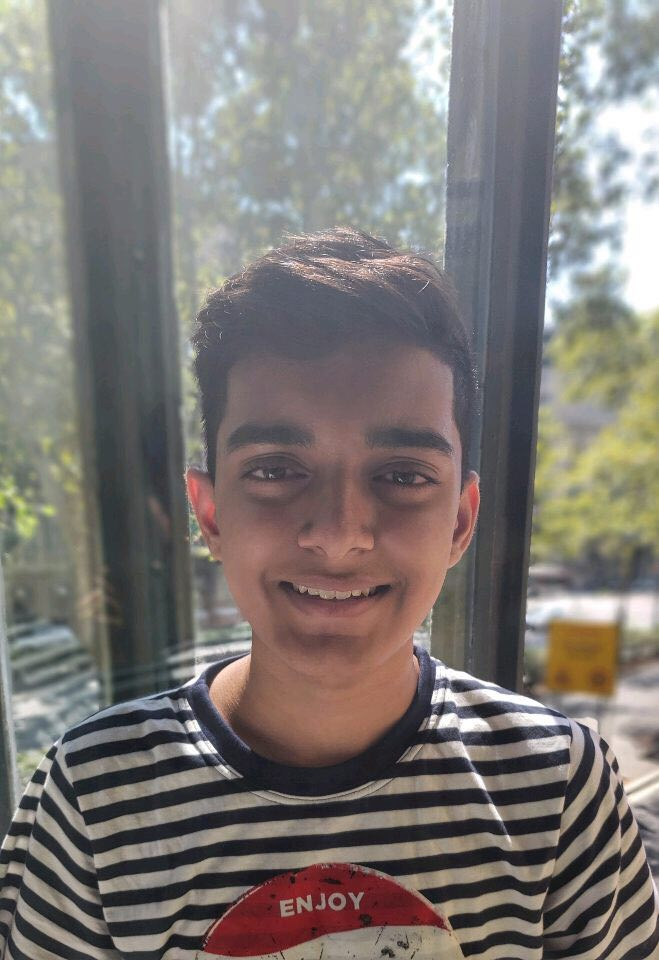
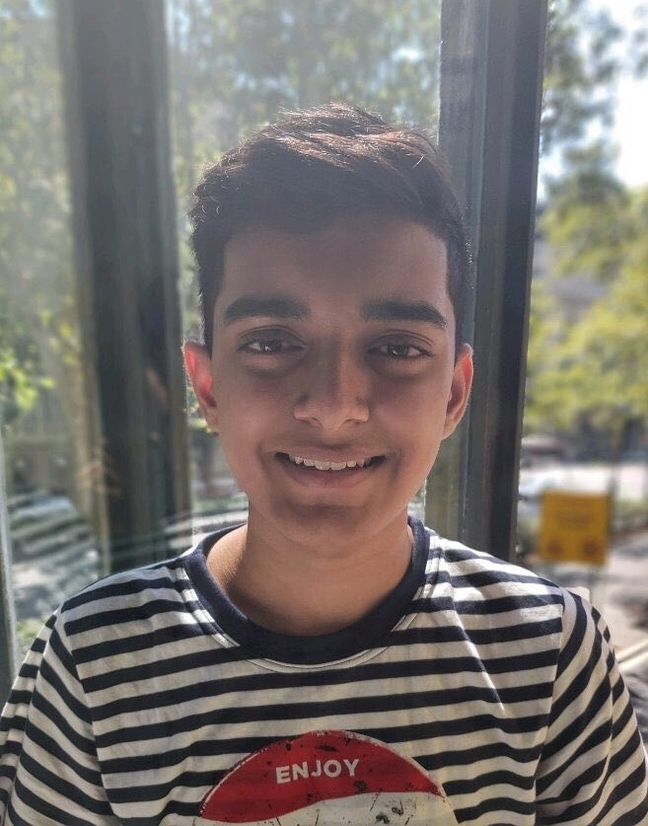
Update

diff --git a/about.html b/about.html
@@ -39,7 +39,7 @@
                 <li class="active"><a href="about.html">About</a></li>
                 <li><a href="involved.html">Get Involved</a></li>
                 <li><a href="contact.html">Contact</a></li>
-                <li><a href="#">Blog</a></li>
+                <li><a href="https://oursafetyusa4.wixsite.com/problydidntknow">Blog</a></li>
               </ul>
             </div>
           </div>
@@ -165,7 +165,7 @@
 
             <div class="col-md-3 col-sm-6">
               <div class="team-member">
-                <div class="image"><a href="#"><img src="img/person-4.jpg" alt="" class="img-responsive"></a></div>
+                <div class="image"><a href="#"><img src="img/p1.jpg" alt="" class="img-responsive"></a></div>
                 <h3>Rahul Aggarwal</h3>
                 <p class="role">Founder and Executive Director</p>
                 <div class="social">
@@ -176,7 +176,7 @@
            
             <div class="col-md-3 col-sm-6">
               <div class="team-member">
-                <div class="image"><a href="#"><img src="img/person-4.jpg" alt="" class="img-responsive"></a></div>
+                <div class="image"><a href="#"><img src="img/p2.jpg" alt="" class="img-responsive"></a></div>
                 <h3>Ananya Ram</h3>
                 <p class="role">Director of Public Relations</p>
                 <div class="social">
@@ -187,7 +187,7 @@
          
             <div class="col-md-3 col-sm-6">
               <div class="team-member">
-                <div class="image"><a href="#"><img src="img/person-4.jpg" alt="" class="img-responsive"></a></div>
+                <div class="image"><a href="#"><img src="img/p3.jpg" alt="" class="img-responsive"></a></div>
                 <h3>Shivam Dongre</h3>
                 <p class="role">Director of Finance</p>
                 <div class="social">
@@ -198,7 +198,7 @@
       
             <div class="col-md-3 col-sm-6">
               <div class="team-member">
-                <div class="image"><a href="#"><img src="img/person-4.jpg" alt="" class="img-responsive"></a></div>
+                <div class="image"><a href="#"><img src="img/p4.jpg" alt="" class="img-responsive"></a></div>
                 <h3>Shiven Gupta</h3>
                 <p class="role">Director of Content Development</p>
                 <div class="social">
@@ -220,7 +220,7 @@
           
             <div class="col-md-3 col-sm-6">
               <div class="team-member">
-                <div class="image"><a href="#"><img src="img/person-4.jpg" alt="" class="img-responsive"></a></div>
+                <div class="image"><a href="#"><img src="img/p6.jpg" alt="" class="img-responsive"></a></div>
                 <h3 style="font-size: 19px;">Montse Cuetos de Prado</h3>
                 <p class="role">Director of Partnerships</p>
                 <div class="social">
@@ -231,7 +231,7 @@
     
             <div class="col-md-3 col-sm-6">
               <div class="team-member">
-                <div class="image"><a href="#"><img src="img/person-4.jpg" alt="" class="img-responsive"></a></div>
+                <div class="image"><a href="#"><img src="img/p7.jpg" alt="" class="img-responsive"></a></div>
                 <h3>Jake Kelly</h3>
                 <p class="role" style="font-size: 9px;">Editor-In-Chief of “You Probably Didn’t Know”</p>
                 <div class="social">
@@ -242,7 +242,7 @@
     
             <div class="col-md-3 col-sm-6">
               <div class="team-member">
-                <div class="image"><a href="#"><img src="img/person-4.jpg" alt="" class="img-responsive"></a></div>
+                <div class="image"><a href="#"><img src="img/p8.jpg" alt="" class="img-responsive"></a></div>
                 <h3>Saachin Parekh</h3>
                 <p class="role">Director of Marketing</p>
                 <div class="social">
@@ -253,7 +253,7 @@
    
             <div class="col-md-3 col-sm-6">
               <div class="team-member">
-                <div class="image"><a href="#"><img src="img/person-4.jpg" alt="" class="img-responsive"></a></div>
+                <div class="image"><a href="#"><img src="img/p9.jpg" alt="" class="img-responsive"></a></div>
                 <h3>Rohan Harpalani</h3>
                 <p class="role">Associate Director of Partnerships</p>
                 <div class="social">
@@ -264,7 +264,7 @@
 
             <div class="col-md-3 col-sm-6">
               <div class="team-member">
-                <div class="image"><a href="#"><img src="img/person-4.jpg" alt="" class="img-responsive"></a></div>
+                <div class="image"><a href="#"><img src="img/p10.jpg" alt="" class="img-responsive"></a></div>
                 <h3>Francesca Abruzzo</h3>
                 <p class="role">Director of Outreach</p>
                 <div class="social">
@@ -275,7 +275,7 @@
 
             <div class="col-md-3 col-sm-6">
               <div class="team-member">
-                <div class="image"><a href="#"><img src="img/person-4.jpg" alt="" class="img-responsive"></a></div>
+                <div class="image"><a href="#"><img src="img/p11.jpg" alt="" class="img-responsive"></a></div>
                 <h3>Arnav Lande</h3>
                 <p class="role">Director of Graphic Design</p>
                 <div class="social">
@@ -286,7 +286,7 @@
 
             <div class="col-md-3 col-sm-6">
               <div class="team-member">
-                <div class="image"><a href="#"><img src="img/person-4.jpg" alt="" class="img-responsive"></a></div>
+                <div class="image"><a href="#"><img src="img/p12.jpg" alt="" class="img-responsive"></a></div>
                 <h3>Samyak Mishra</h3>
                 <p class="role">Associate Director of Outreach</p>
                 <div class="social">

diff --git a/involved.html b/involved.html
@@ -39,7 +39,7 @@
                 <li><a href="about.html">About</a></li>
                 <li class="active"><a href="involved.html">Get Involved</a></li>
                 <li><a href="contact.html">Contact</a></li>
-                <li><a href="#">Blog</a></li>
+                <li><a href="https://oursafetyusa4.wixsite.com/problydidntknow">Blog</a></li>
               </ul>
             </div>
           </div>
@@ -60,19 +60,19 @@
         </div>
 
         <div class="wow fadeInUp col-md-3 col-sm-6 col-xs-6" data-wow-delay="0.3s">
-          <img src="images/sponsor-img1.jpg" class="img-responsive" alt="sponsors">
+          <img src="img/sponsor-img1.jpg" class="img-responsive" alt="sponsors">
         </div>
 
         <div class="wow fadeInUp col-md-3 col-sm-6 col-xs-6" data-wow-delay="0.6s">
-          <img src="images/sponsor-img2.jpg" class="img-responsive" alt="sponsors">
+          <img src="img/sponsor-img2.jpg" class="img-responsive" alt="sponsors">
         </div>
 
         <div class="wow fadeInUp col-md-3 col-sm-6 col-xs-6" data-wow-delay="0.9s">
-          <img src="images/sponsor-img3.jpg" class="img-responsive" alt="sponsors">
+          <img src="img/sponsor-img3.jpg" class="img-responsive" alt="sponsors">
         </div>
 
         <div class="wow fadeInUp col-md-3 col-sm-6 col-xs-6" data-wow-delay="1s">
-          <img src="images/sponsor-img4.jpg" class="img-responsive" alt="sponsors">
+          <img src="img/sponsor-img4.jpg" class="img-responsive" alt="sponsors">
         </div>
       </div>
     </div>

diff --git a/contact.html b/contact.html
@@ -43,7 +43,7 @@
                 <li><a href="about.html">About</a></li>
                 <li><a href="involved.html">Get Involved</a></li>
                 <li class="active"><a href="contact.html">Contact</a></li>
-                <li><a href="#">Blog</a></li>
+                <li><a href="https://oursafetyusa4.wixsite.com/problydidntknow">Blog</a></li>
               </ul>
             </div>
           </div>

diff --git a/index.html b/index.html
@@ -45,7 +45,7 @@
                 <li><a href="about.html">About</a></li>
                 <li><a href="involved.html">Get Involved</a></li>
                 <li><a href="contact.html">Contact</a></li>
-                <li><a href="#">Blog</a></li>
+                <li><a href="https://oursafetyusa4.wixsite.com/problydidntknow">Blog</a></li>
               </ul>
             </div>
           </div>

diff --git a/css/style.default.css b/css/style.default.css
@@ -190,7 +190,14 @@ h4.heading:after {
   color: #555555;
 }
 .team-member .image {
+  display: inline-block;
+  margin: 0 30px;
+  width: 190px;
+  height: 190px;
+  overflow: hidden;
+  border-radius: 50%;
   margin-bottom: 20px;
+
 }
 .team-member p.role {
   color: #999999;
@@ -495,7 +502,6 @@ p.social a.email {
 }
 
 #fh5co-event {
-  height: 100%;
   width: 100%;
   float: left;
 }
